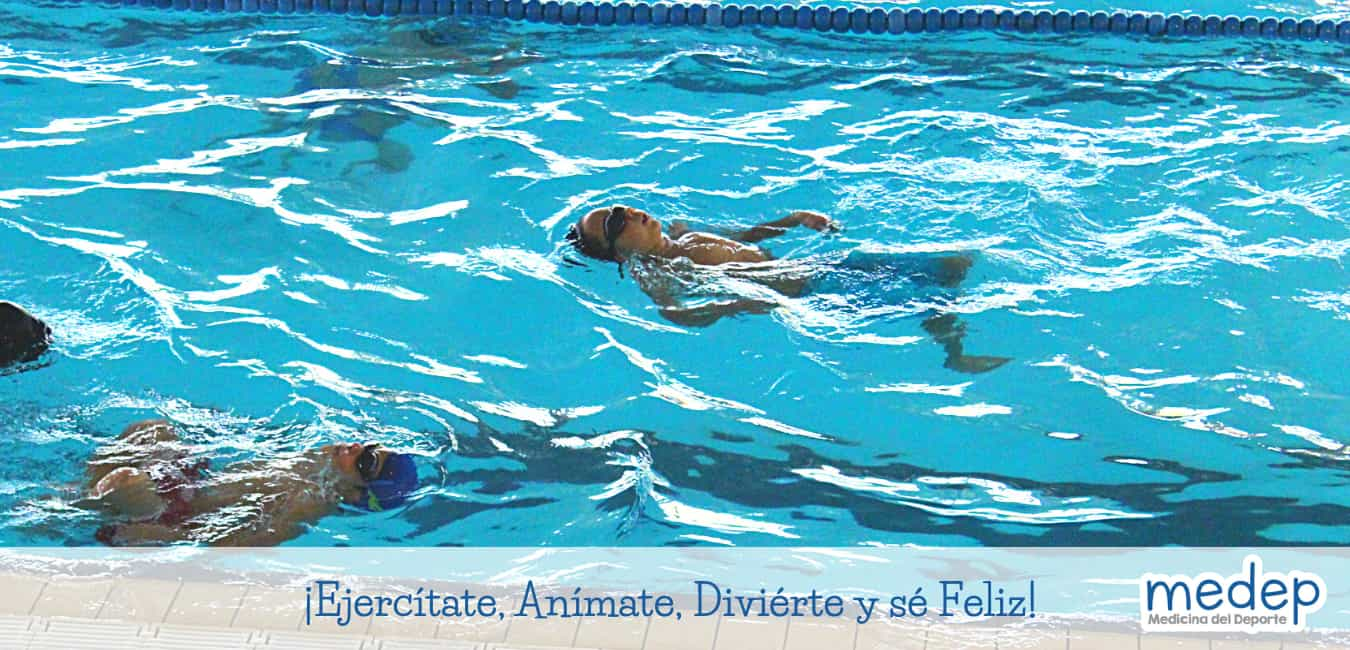
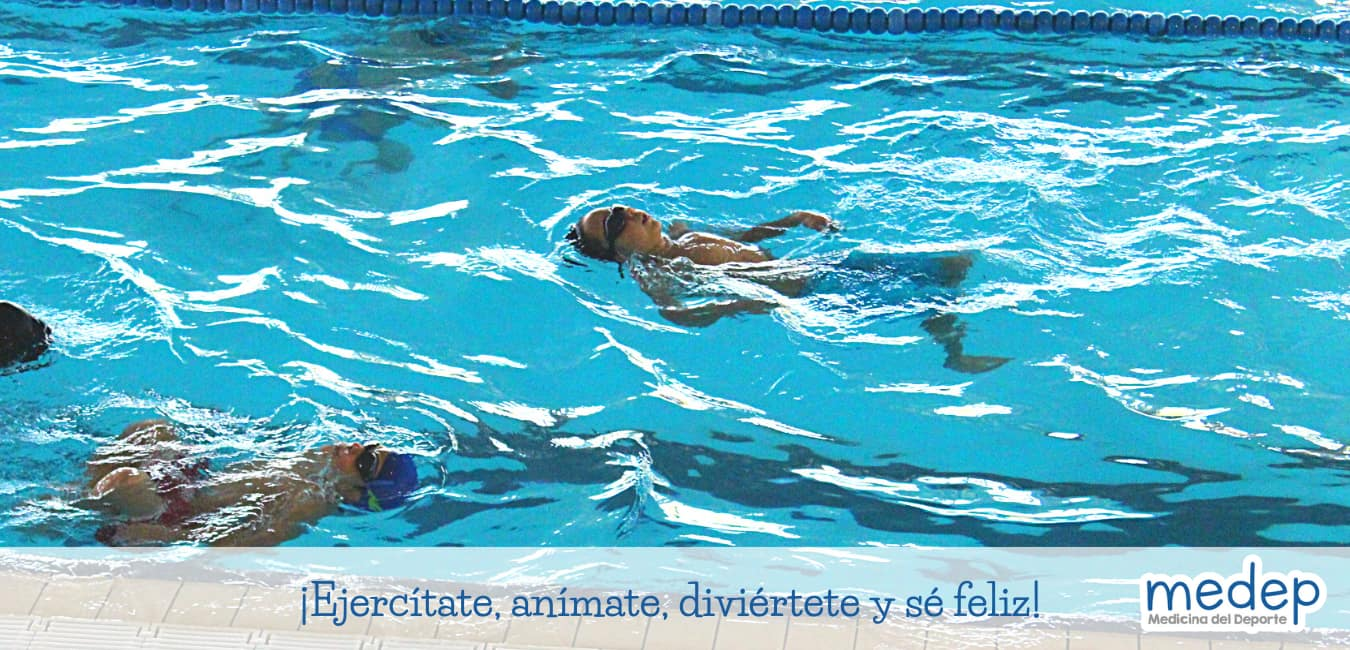
ultimos cambios, final final no va mas

Changed region(s): [[0.2178, 0.8923, 0.7778, 0.9846], [0.6222, 0.4615, 0.6533, 0.4923], [0.1244, 0.6462, 0.1556, 0.6769]]

diff --git a/views/servicios.html b/views/servicios.html
@@ -2,26 +2,21 @@
 <section class="col-12 mb-4 mt-4" id="Servicios">
 
     <h1 class="mb-4">¿Qué te podemos ofrecer?</h1>
-    <!-- <div class="row">
-        <div class="col-12"> -->
     <div class="container mt-4">
-        <div class="row w-100 justify-content-center">
-            <div class="col-sm-3 mr-2 mb-4 text-center" id="element1">
+        <div class="row w-100 justify-content-center m-0 p-0">
+            <div class="col-sm-3 mb-4 text-center" id="element1">
                 <div class="rounded-circle" style="background: url('/image/icons/icon-1.png') no-repeat center center/cover; width:140px; height:140px; margin:auto;"></div>
-                <!-- <p class="card-text">Evaluación de tu estado de salud y condición física.</p> -->
                 <p class="card-text">Tele-orientación.</p>
                 <p><a class="d-none" modalTitle="Tele-orientación." completeText="Servicio de orientación por teleconsulta." data-toggle="modal" data-target="#exampleModal" href="javascript;;">Ver más »</a></p>
             </div>
-            <div class="col-sm-3 mr-2 mb-4 text-center" id="element2">
+            <div class="col-sm-3 mb-4 text-center" id="element2">
                 <div class="rounded-circle" style="background: url('/image/icons/icon-2.png') no-repeat center center/cover; width:140px; height:140px; margin:auto;"></div>
-                <!-- <p class="card-text">Atención si deseas practicar o prácticas ejercicio o deporte y sufres algún trastorno crónico</p> -->
                 <p class="card-text">Consulta a domicilio.</p>
                 <p><a class="d-none" modalTitle="Consulta a domicilio." completeText="Valoración completa directo a su casa o su oficina." data-toggle="modal" data-target="#exampleModal" href="javascript;;">Ver más »</a></p>
             </div>
-            <div class="col-sm-3 mr-2 mb-4 text-center" id="element3">
+            <div class="col-sm-3 mb-4 text-center" id="element3">
                 <div class="rounded-circle" style="background: url('/image/icons/icon-3.png') no-repeat center center/cover; width:140px; height:140px; margin:auto;"></div>
-                <!-- <p class="card-text">Emisión de certificados</p> -->
-                <p class="card-text">Consulta presencial - Opción de consulta compartida con pediátria.</p>
+                <p class="card-text">Consulta presencial. <br> Opción de consulta compartida con pediátria.</p>
                 <p><a class="d-none" modalTitle="Consulta presencial - Opción de consulta compartida con pediátria." completeText="Consulta presencial (Consultorio Médico).<br/> <br/>Si hay alguna condición especial de salud, contamos con apoyo de pediatría para atención integral."
                         data-toggle="modal" data-target="#exampleModal" href="javascript;;">Ver más »</a></p>
             </div>
@@ -30,17 +25,15 @@
 
 
     <div class="container mt-4">
-        <div class="row w-100 justify-content-center">
+        <div class="row w-100 justify-content-center m-0 p-0">
             <div class="col-sm-3 mb-4 text-center" id="element4">
                 <div class="rounded-circle" style="background: url('/image/icons/icon-4.png') no-repeat center center/cover; width:140px; height:140px; margin:auto;"></div>
-                <!-- <p class="card-text">Tratamiento y guía en la rehabilitación de lesiones</p> -->
                 <p class="card-text">Valoración general del estado físico.</p>
                 <p><a class="d-none" modalTitle="Valoración general del estado físico." completeText="¿Qué podrías mejorar para contar con una mejor salud?<br/> <br/>Evaluación completa de talla, peso, antropometría, composición corporal, postura, factores de riesgo."
                         data-toggle="modal" data-target="#exampleModal" href="javascript;;">Ver más »</a></p>
             </div>
             <div class="col-sm-3 mb-4 text-center" id="element5">
                 <div class="rounded-circle" style="background: url('/image/icons/icon-5.png') no-repeat center center/cover; width:140px; height:140px; margin:auto;"></div>
-                <!-- <p class="card-text">Tele-orientación</p> -->
                 <p class="card-text">Valoración preparticipativa para paciente sano o con condiciones especiales.</p>
                 <p><a class="d-none" modalTitle="Valoración preparticipativa para paciente sano o con condiciones especiales." completeText="¿Vas a practicar algún deporte o quieres iniciar un plan de actividad física?<br/><br/>Nuestra evaluación incluye:<ul>
                         <li>Antropometría y composición corporal.</li>
@@ -50,7 +43,6 @@
             </div>
             <div class="col-sm-3 mb-4 text-center" id="element6">
                 <div class="rounded-circle" style="background: url('/image/icons/icon-6.png') no-repeat center center/cover; width:140px; height:140px; margin:auto;"></div>
-                <!-- <p class="card-text">Consulta básica a domicilio</p> -->
                 <p class="card-text">Certificado de aptitud para colegios, academias y empresas.</p>
                 <p><a class="d-none" modalTitle="Certificado de aptitud para colegios, academias y empresas." completeText="Certificación para participación en actividad física en colegios, empresas o para ingreso a academias de formación deportiva.<br/><br/>
                     Incluye
@@ -62,7 +54,6 @@
             </div>
             <div class="col-sm-3 mb-4 text-center" id="element7">
                 <div class="rounded-circle" style="background: url('/image/icons/icon-7.png') no-repeat center center/cover; width:140px; height:140px; margin:auto;"></div>
-                <!-- <p class="card-text">Asesoría y directices para el retorno al juego de forma segura</p> -->
                 <p class="card-text">Diagnóstico de lesiones deportivas o asesoría en rehabilitación.</p>
                 <p><a class="d-none" modalTitle="Diagnóstico de lesiones deportivas o asesoría en rehabilitación." completeText="¿Te lesionaste practicando ejercicio o tu deporte?<br/><br/>
                     Realizamos diagnóstico de lesiones y generamos un plan de rehabilitación para un retorno seguro  a la práctica." data-toggle="modal" data-target="#exampleModal" href="javascript;;">Ver más »</a></p>
@@ -71,10 +62,9 @@
     </div>
 
     <div class="container mt-4">
-        <div class="row w-100 justify-content-center">
-            <div class="col-sm-3 mr-2 mb-4 text-center" id="element8">
+        <div class="row w-100 justify-content-center m-0 p-0">
+            <div class="col-sm-3 mb-4 text-center" id="element8">
                 <div class="rounded-circle" style="background: url('/image/icons/icon-8.png') no-repeat center center/cover; width:140px; height:140px; margin:auto;"></div>
-                <!-- <p class="card-text">Prescripción del ejercicio</p> -->
                 <p class="card-text">Prescripción del ejercicio en objetivos individuales.</p>
                 <p>
                     <a class="d-none" modalTitle="Prescripción del ejercicio en objetivos individuales." completeText="

diff --git a/js/main.js b/js/main.js
@@ -1,3 +1,4 @@
+let COLUMN_COUNT_BOOTSTRAP = 12;
 let flag = 0;
 let element = '';
 let blog = "";
@@ -66,7 +67,7 @@ function loadView(options) {
         contentSpace.addClass("mt-4");
 
         for (let content of blog.content) {
-            contentSpace.append(`<section id="${content.id}" style="padding: 5px;  width: 100%; display: flex; flex-direction: row;" ></section>`)
+            contentSpace.append(`<div class="container-fluid mb-3"> <div id="${content.id}" class="row"></div> </div>`)
             builtBlogHTML(content);
         }
 
@@ -154,7 +155,7 @@ function builtBlogHTML(_blog) {
                 drawColum(content, parentID);
                 break;
             case 'section':
-                drawColum(content, parentID);
+                drawSection(content, parentID);
                 break;
             case "widget":
                 drawWidget(content, parentID);
@@ -170,8 +171,20 @@ function builtBlogHTML(_blog) {
 function drawColum(content, parentID) {
     const parentElement = $(`#${parentID}`);
 
-    // border: 1px solid #900;
-    $(parentElement).append(`<div id="${content.id}" style="padding: 5px; width: ${content.settings._column_size}%;"></div>`);
+    const col = content.settings._column_size * COLUMN_COUNT_BOOTSTRAP / 100;
+
+    $(parentElement).append(`
+    <div id="${content.id}" class="col-md-${col} col-xs-12"></div>
+    `);
+    // $(parentElement).append(`<div id="${content.id}" style="padding: 5px; width: ${content.settings._column_size}%;"></div>`);
+}
+
+function drawSection(content, parentID) {
+    const parentElement = $(`#${parentID}`);
+
+    $(parentElement).append(`
+    <div class="container-fluid mb-3"> <div id="${content.id}" class="row"></div> </div>
+    `);
 }
 
 async function drawWidget(content, parentID) {
@@ -209,35 +222,42 @@ async function drawWidget(content, parentID) {
             break;
         case "image":
             if (content.settings.image !== undefined)
-                $(parentElement).append(`<div style="text-align: center;">
-            <img src="${ChangeURL(content.settings.image.url)}" alt="" 
-            width="${content.settings.image_custom_dimension.width}"
-            height="${content.settings.image_custom_dimension.height}">
-            </div>`);
+                $(parentElement).append(`
+                <div style="text-align: center;">
+                    <figure class="figure" style="width: auto;">
+                        <img src="${ChangeURL(content.settings.image.url)}" class="figure-img img-fluid rounded" alt="">
+                    </figure>
+                </div>`);
             break;
         case "image-box":
             if (content.settings.image !== undefined) {
                 const url = ChangeURL(content.settings.image.url);
-                $(parentElement).append(`<div style="text-align: center;">
-                <img src="${url}" alt="" width="300" height="220">
-                <h1>${content.settings.title_text}</h1>
-                <p>${content.settings.description_text}</p>
+                $(parentElement).append(`
+                <div style="text-align: center;">
+                    <figure class="figure" style="width: auto;">
+                        <img src="${url}" class="figure-img img-fluid rounded" alt="">
+                    </figure>
+
+                    <h1>${content.settings.title_text}</h1>
+                    <p>${content.settings.description_text}</p>
                 </div>`);
             }
             break;
         case "image-carousel":
             let innerCarousel = '';
+            let innerIndicator = '';
             let flag = 0;
 
-            for (const image of content.settings.carousel) {
+            for (const [index, image] of content.settings.carousel.entries()) {
                 url = ChangeURL(image.url);
 
-                // <div  style="background: url('${url}') no-repeat center center/cover;  width:100%; height:800px; margin: auto;"></div>
+                innerIndicator += `<li data-target="#carouselBlog" data-slide-to="${index}" class="${flag===0?'active':''}"></li>`
+
                 innerCarousel += `
                 <div class="carousel-item ${flag===0?'active':''}">
-                <div class="d-block w-100">
-                <div  style="background: url('${url}') no-repeat top left / 100% 100%;  width:100%; height:650px; margin: auto;"></div>
-                </div>
+                    <div class="d-block w-100">
+                        <img class="d-block w-100" src="${url}" alt="First slide">
+                    </div>
                 </div>`;
 
                 if (flag === 0) {
@@ -248,17 +268,18 @@ async function drawWidget(content, parentID) {
             $(parentElement).append(`<div style="text-align: center;">
             
             <div id="carouselBlog" class="carousel slide mb-4" data-ride="carousel">
+                <ol class="carousel-indicators">
+                    ${innerIndicator}
+                </ol>
                 <div class="carousel-inner">
-                    
-                        ${innerCarousel}
-                    
+                    ${innerCarousel}
                 </div>
                 <a class="carousel-control-prev" href="#carouselBlog" role="button" data-slide="prev">
-                    <span class="carousel-control-prev-icon" aria-hidden="true"></span>
+                    <i class="fas fa-angle-left fa-4x text-dark" aria-hidden="true"></i>
                     <span class="sr-only">Previous</span>
                 </a>
                 <a class="carousel-control-next" href="#carouselBlog" role="button" data-slide="next">
-                    <span class="carousel-control-next-icon" aria-hidden="true"></span>
+                    <i class="fas fa-angle-right fa-4x text-dark" aria-hidden="true"></i>
                     <span class="sr-only">Next</span>
                 </a>
             </div>

diff --git a/views/medicinadeportivaninos.html b/views/medicinadeportivaninos.html
@@ -2,7 +2,7 @@
 
     <h1>Medicina Deportiva Pediátrica</h1>
     <p class="mb-4">
-        En la Medicina Deportiva Pediátrica cuidamos de aquellos niños y adolescentes que quieren iniciarse en el mundo del deporte, de una forma segura, previniendo lesiones y proporcionandoles herramientas para tener los mejores resultados.
+        En la Medicina Deportiva Pediátrica cuidamos de aquellos niños y adolescentes que quieren iniciarse en el mundo del deporte, de una forma segura, previniendo lesiones y proporcionándoles herramientas para tener los mejores resultados.
     </p>
 
     <div class="card mb-4">
@@ -19,21 +19,21 @@
                                 Beneficios que se pueden obtener al realizar Actividad Física o Deporte
                             </p>
                             <ul>
-                                <li> Incrementan la confianza en sí mismos
+                                <li> Incrementan la confianza en sí mismos.
                                 </li>
-                                <li>Mejora la percepción acerca de su imagen
+                                <li>Mejora la percepción acerca de su imagen.
                                 </li>
-                                <li>Mejoran el rendimiento académico y deportivo
+                                <li>Mejoran el rendimiento académico y deportivo.
                                 </li>
-                                <li>Desarrollan habilidades
+                                <li>Desarrollan habilidades.
                                 </li>
-                                <li>Aumentan la adherencia a la actividad física durante toda la vida
+                                <li>Aumentan la adherencia a la actividad física durante toda la vida.
                                 </li>
-                                <li>Mejoran su función cardiovascular, perfil lipídico, sensibilidad a la insulina (pacientes con sobrepeso u obesidad)
+                                <li>Mejoran su función cardiovascular, perfil lipídico, sensibilidad a la insulina (pacientes con sobrepeso u obesidad).
                                 </li>
-                                <li>Disminuyen el riesgo de lesiones
+                                <li>Disminuyen el riesgo de lesiones.
                                 </li>
-                                <li>Aumentan fuerza y potencia muscular
+                                <li>Aumentan fuerza y potencia muscular.
                                 </li>
                             </ul>
                         </div>
@@ -58,11 +58,11 @@
                                 Si se práctica deporte de manera no segura o guiada se pueden presentar lesiones deportivas
                             </p>
                             <ul>
-                                <li> Lesiones óseas en las zonas de crecimiento (enfermedad de Osgood Schlatter o enfermedad de Server)
+                                <li> Lesiones óseas en las zonas de crecimiento (enfermedad de Osgood Schlatter o enfermedad de Server).
                                 </li>
-                                <li>Lesiones agudas (esguinces, desgarros, lesiones de rodillas u hombro)
+                                <li>Lesiones agudas (esguinces, desgarros, lesiones de rodillas u hombro).
                                 </li>
-                                <li>Lesiones por sobreuso (fracturas por estrés, dolor de espalda, tendinopatías)
+                                <li>Lesiones por sobreuso (fracturas por estrés, dolor de espalda, tendinopatías).
                                 </li>
                             </ul>
                         </div>
@@ -80,10 +80,9 @@
         <li class="list-group-item">Asesoria en actividad física para crecimiento adecuado y ganancia de habilidades en niños sanos o con condiciones especiales de salud. </li>
         <li class="list-group-item">Evaluaciones del estado de salud y condición física de niños y jóvenes. </li>
         <li class="list-group-item">Certificados médicos para la práctica deportiva segura en colegios y academias.</li>
-        <li class="list-group-item">Consulta compartida con pediatría para evaluación integral del niño </li>
-        <!-- <li class="list-group-item">Diagnóstico tratamiento y rehabilitación de lesiones deportivas. </li> -->
+        <li class="list-group-item">Consulta compartida con pediatría para evaluación integral del niño.</li>
         <li class="list-group-item">Acompañamiento médico para retorno al deporte seguro luego de una lesión.</li>
-        <li class="list-group-item">Consulta de Medicina deportiva domiciliaria. </li>
+        <li class="list-group-item">Consulta de medicina deportiva domiciliaria. </li>
     </ul>
 
 </section>

diff --git a/views/nosotros.html b/views/nosotros.html
@@ -38,7 +38,7 @@
     <div class="card mt-4">
         <div class="car-body p-5">
             <div class="d-sm-flex justify-content-between w-100">
-                <div class="mr-4">
+                <div class="d-flex justify-content-center mr-sm-4">
                     <div class="image-about-1"></div>
                 </div>
                 <br class="d-sm-block d-xs-block">
@@ -48,7 +48,7 @@
                     <p class="m-0 p-0">Especialista en Medicina del Deporte Universidad El Bosque </p>
                     <p class="m-0 p-0">Diplomatura Medicina Deportiva Pediátrica Universidad Favaloro en curso</p>
                     <h5 class="border mt-2 p-3">
-                        ¡ Un buen deportista no se construye a futuro, se construye desde pequeño colocando cada peldaño en el momento indicado y con la mayor calidad para llegar al éxito!
+                        ¡Un buen deportista no se construye a futuro, se construye desde pequeño colocando cada peldaño en el momento indicado y con la mayor calidad para llegar al éxito!
                     </h5>
                 </div>
             </div>
@@ -58,9 +58,10 @@
     <div class="card mt-4">
         <div class="car-body p-5">
             <div class="d-sm-flex flex-row-reverse justify-content-between w-100">
-                <div class="ml-4">
-                    <div class="image-about-2 d-sm-block"></div>
+                <div class="d-flex justify-content-center ml-sm-4">
+                    <div class="image-about-2"></div>
                 </div>
+                <br class="d-sm-block d-xs-block">
                 <div class="text-right">
                     <h3>Andrés Beltrán Rodríguez</h3>
                     <p class="m-0 p-0">Médico General Universidad Nacional de Colombia</p>

diff --git a/index.html b/index.html
@@ -159,7 +159,7 @@
                             <img src="/image/logo/Medep-4.png" alt="" width="auto" height="120">
                         </div>
                         <div class="mr-2"></div>
-                        <p class="text-white text-justify mt-4" style="font-size: 18px;">Somos Médicos del Deporte localizados en Bogotá, enfocados en atención a niños y adultos, buscamos promover la mejor práctica de actividad física y deportiva</p>
+                        <p class="text-white text-justify mt-4" style="font-size: 18px;">Somos Médicos del Deporte localizados en Bogotá, enfocados en atención a niños y adultos, buscamos promover la mejor práctica de actividad física y deportiva.</p>
                     </div>
 
                     <div class="d-flex flex-column mb-2 text-white">
@@ -199,7 +199,7 @@
 
                         <div class="mb-1">
                             <a href="https://wa.me/+573245898887" target="_blank" class="text-white" title="contactanos a través de WhatsApp">
-                                <i class="fab fa-whatsapp fa-2x mr-3"></i> +57 324 589 88 87
+                                <i class="fab fa-whatsapp fa-2x mr-2"></i> +57 324 589 88 87
                             </a>
                         </div>
 

diff --git a/views/formcontact.html b/views/formcontact.html
@@ -1,7 +1,7 @@
 <div class="container mt-4">
     <h1>¿Quieres ponerte en contacto con nosotros?</h1>
     <p class="mb-4">
-        Nuestros especialistas están esperando tu comunicación para brindarte la más completa asesoría. Para hablar con un profesional, diligencia el siguiente formulario de contacto
+        Nuestros especialistas están esperando tu comunicación para brindarte la más completa asesoría. Para hablar con un profesional, diligencia el siguiente formulario de contacto.
     </p>
 
     <div class="mb-4">
